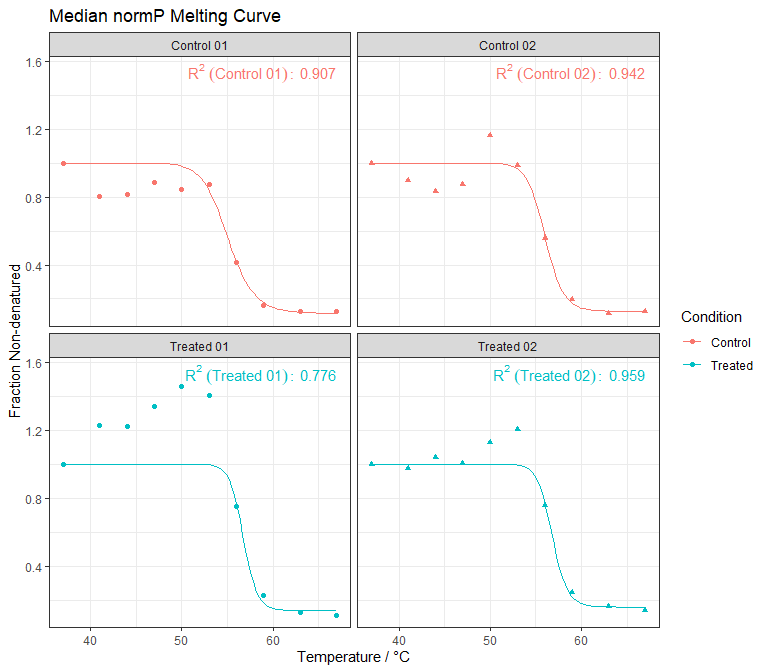
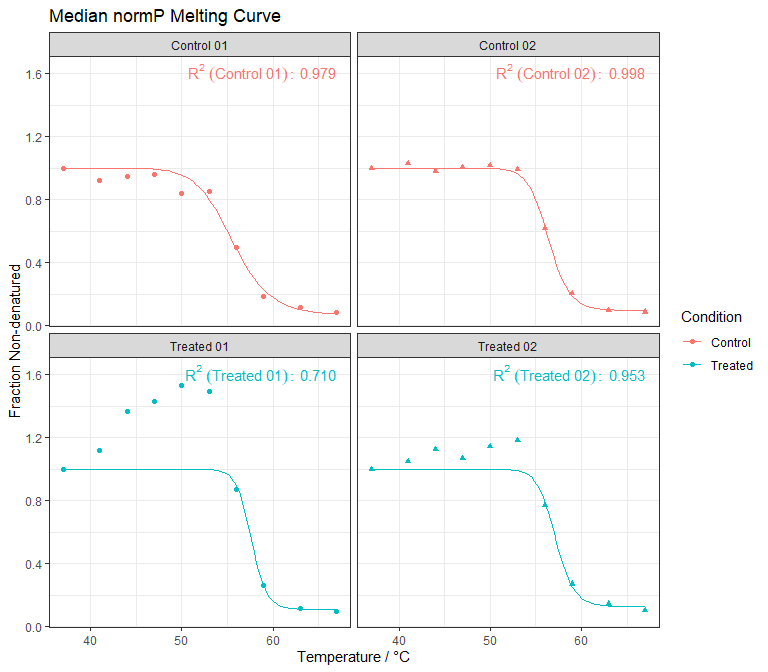
Update README to use 4-protein example data

diff --git a/README.md b/README.md
@@ -84,11 +84,11 @@ program-specific format, and a configuration file, defining conditions,
 replicates and temperatures, in the format shown.
 
 ``` r
-# 2-protein example data
-two_prot_report <-
-    system.file("extdata", "normP_report.csv", package = "tidyTPP")
+# 4-protein example data
+four_prot_report <-
+    system.file("extdata", "4_protein_peptide_report.csv", package = "tidyTPP")
 experiment_config <-
-    system.file("extdata", "ATIC_config.csv", package = "tidyTPP")
+    system.file("extdata", "4_protein_config.csv", package = "tidyTPP")
 
 # Config file contents
 read.csv(experiment_config)[1:10,]
@@ -105,48 +105,48 @@ read.csv(experiment_config)[1:10,]
 #> 10         10   Control         1   67
 
 # Import using spectronaut import format
-two_prot_quan_data <- 
-  import_spectronaut(datafile = two_prot_report,
+four_prot_quan_data <- 
+  import_spectronaut(datafile = four_prot_report,
                      config = experiment_config)
 #> 
 #> --------------------
 #> TPP Data Import
 #> --------------------
 #> Read in:
-#> C:/Users/jr2020/AppData/Local/Temp/RtmpoPSJxM/temp_libpath26c4672e2e12/tidyTPP/extdata/normP_report.csv 
-#> C:/Users/jr2020/AppData/Local/Temp/RtmpoPSJxM/temp_libpath26c4672e2e12/tidyTPP/extdata/ATIC_config.csv 
+#> C:/Users/jr2020/AppData/Local/Temp/RtmpoPSJxM/temp_libpath26c45695eb2/tidyTPP/extdata/4_protein_peptide_report.csv 
+#> C:/Users/jr2020/AppData/Local/Temp/RtmpoPSJxM/temp_libpath26c45695eb2/tidyTPP/extdata/4_protein_config.csv 
 #> --------------------
 #> Pivoting to long table...
 #> Transforming experiment names...
 #> Matching to experiment config data...
 #> Finding relative quantity values...
 #> Data imported.
-#> Found 2 proteins.
+#> Found 4 proteins.
 #> --------------------
 
 # Resulting tibble
-two_prot_quan_data
-#> # A tibble: 80 × 8
+four_prot_quan_data
+#> # A tibble: 160 × 8
 #>    Protein_ID Pep_N Match_N Condition Replicate  Temp rel_quantity raw_quantity
 #>    <chr>      <dbl>   <dbl> <chr>     <chr>     <int>        <dbl>        <dbl>
-#>  1 ATIC          36      62 Control   01           37      1           7913466.
-#>  2 ATIC          36      62 Control   01           41      0.915       7238843 
-#>  3 ATIC          36      62 Control   01           44      0.895       7083090 
-#>  4 ATIC          36      62 Control   01           47      0.689       5454540.
-#>  5 ATIC          36      62 Control   01           50      0.416       3291901 
-#>  6 ATIC          36      62 Control   01           53      0.195       1542812.
-#>  7 ATIC          36      62 Control   01           56      0.0458       362589.
-#>  8 ATIC          36      62 Control   01           59      0.0168       132594.
-#>  9 ATIC          36      62 Control   01           63      0.0258       204328.
-#> 10 ATIC          36      62 Control   01           67      0.00986       78023.
-#> # ℹ 70 more rows
+#>  1 Protein_A     36      62 Control   01           37      1           7913466.
+#>  2 Protein_A     36      62 Control   01           41      0.915       7238843 
+#>  3 Protein_A     36      62 Control   01           44      0.895       7083090 
+#>  4 Protein_A     36      62 Control   01           47      0.689       5454540.
+#>  5 Protein_A     36      62 Control   01           50      0.416       3291901 
+#>  6 Protein_A     36      62 Control   01           53      0.195       1542812.
+#>  7 Protein_A     36      62 Control   01           56      0.0458       362589.
+#>  8 Protein_A     36      62 Control   01           59      0.0168       132594.
+#>  9 Protein_A     36      62 Control   01           63      0.0258       204328.
+#> 10 Protein_A     36      62 Control   01           67      0.00986       78023.
+#> # ℹ 150 more rows
 ```
 
 Data at this stage can be plotted to directly observe relative but *not
 yet normalised* protein curves.
 
 ``` r
-plot_melt(two_prot_quan_data)
+plot_melt(four_prot_quan_data)
 ```
 
 <img src="man/figures/README-example_import_plot-1.png" width="75%" />
@@ -159,8 +159,8 @@ Savitsky *et al.* 2014.<sup>[1](#ref-Savitski_2014)</sup>
 
 ``` r
 # Normalise 2-protein data, with visualisation
-two_prot_normalised <- 
-  normalise_TPP(TPP_tbl = two_prot_quan_data,
+four_prot_normalised <- 
+  normalise_TPP(TPP_tbl = four_prot_quan_data,
                 to_plot = TRUE)
 #> --------------------
 #> TPP Normalisation
@@ -169,7 +169,7 @@ two_prot_normalised <-
 #>     col lower upper
 #> 1 Pep_N     2   Inf
 #> 
-#> jointP contains 2 Proteins.
+#> jointP contains 4 Proteins.
 #> 
 #> normP criteria:
 #>   Temp lower upper
@@ -177,7 +177,7 @@ two_prot_normalised <-
 #> 2   63  -Inf   0.3
 #> 3   67  -Inf   0.2
 #> 
-#> normP contains 1 Proteins.
+#> normP contains 2 Proteins.
 #> --------------------
 #> Fit melting curve to normP medians:
 #> 
@@ -186,13 +186,13 @@ two_prot_normalised <-
 #> |==        | 1 of 4|=====     | 2 of 4|=======   | 3 of 4|==========| 4 of 4
 #> 4 of 4 fitted successfully.
 #> 
-#> Total elapsed time: 0.76 s
+#> Total elapsed time: 0.75 s
 #> 
 #> Best fitted normP median curve:
 #>   Condition Replicate  R_sq
-#> 1   Treated        02 0.959
+#> 1   Control        02 0.998
 #> --------------------
-#> 2 proteins normalised
+#> 4 proteins normalised
 #> --------------------
 ```
 
@@ -203,21 +203,21 @@ Resulting in the normalised data:
 
 ``` r
 # Plotted melting data points
-plot_melt(two_prot_normalised)
-#> # A tibble: 80 × 9
+plot_melt(four_prot_normalised)
+#> # A tibble: 160 × 9
 #>    Condition Replicate  Temp Protein_ID Pep_N Match_N rel_quantity raw_quantity
 #>    <chr>     <chr>     <int> <chr>      <dbl>   <dbl>        <dbl>        <dbl>
-#>  1 Control   01           37 ATIC          36      62        1         7913466.
-#>  2 Control   01           37 CFL1          23      49        1        94161240 
-#>  3 Control   01           41 CFL1          23      49        1.00     75621648 
-#>  4 Control   01           41 ATIC          36      62        1.14      7238843 
-#>  5 Control   01           44 CFL1          23      49        1.00     76666176 
-#>  6 Control   01           44 ATIC          36      62        1.10      7083090 
-#>  7 Control   01           47 CFL1          23      49        1.00     83278416 
-#>  8 Control   01           47 ATIC          36      62        0.779     5454540.
-#>  9 Control   01           50 CFL1          23      49        1.00     79680368 
-#> 10 Control   01           50 ATIC          36      62        0.492     3291901 
-#> # ℹ 70 more rows
+#>  1 Control   01           37 Protein_A     36      62        1.00      7913466.
+#>  2 Control   01           37 Protein_B     62     133        1.00    371610272 
+#>  3 Control   01           37 Protein_C     23      49        1.00     94161240 
+#>  4 Control   01           37 Protein_D      5       7        1.00      4286970.
+#>  5 Control   01           41 Protein_D      5       7        1.13      4460470.
+#>  6 Control   01           41 Protein_A     36      62        0.992     7238843 
+#>  7 Control   01           41 Protein_B     62     133        1.01    345026016 
+#>  8 Control   01           41 Protein_C     23      49        0.871    75621648 
+#>  9 Control   01           44 Protein_D      5       7        1.14      4613956.
+#> 10 Control   01           44 Protein_C     23      49        0.861    76666176 
+#> # ℹ 150 more rows
 #> # ℹ 1 more variable: norm_coefficient <dbl>
 ```
 
@@ -241,14 +241,14 @@ optionally calculated from the data:
 Default behaviour is to apply both analyses:
 
 ``` r
-# Analyse 2-protein data
-two_prot_analysed <- 
-  analyse_TPP(TPP_tbl = two_prot_normalised,
+# Analyse four-protein data
+four_prot_analysed <- 
+  analyse_TPP(TPP_tbl = four_prot_normalised,
               control_name = "Control",
               p_value_methods = c("melting_point", "NPARC"))
 
 # Analysed data and fitted curves
-plot_melt(two_prot_analysed)
+plot_melt(four_prot_analysed)
 ```
 
 <img src="man/figures/README-example_analysis-1.png" width="75%" />
@@ -257,21 +257,21 @@ All statistics are appended as new measurements to the *tibble*:
 
 ``` r
 # Full table
-two_prot_analysed
-#> # A tibble: 80 × 25
+four_prot_analysed
+#> # A tibble: 160 × 25
 #>    Protein_ID Condition Replicate  Temp Pep_N Match_N rel_quantity raw_quantity
 #>    <chr>      <chr>     <chr>     <int> <dbl>   <dbl>        <dbl>        <dbl>
-#>  1 ATIC       Control   01           37    36      62       1          7913466.
-#>  2 ATIC       Control   01           44    36      62       1.10       7083090 
-#>  3 ATIC       Control   01           59    36      62       0.0222      132594.
-#>  4 ATIC       Control   01           41    36      62       1.14       7238843 
-#>  5 ATIC       Control   01           63    36      62       0.0330      204328.
-#>  6 ATIC       Control   01           50    36      62       0.492      3291901 
-#>  7 ATIC       Control   01           67    36      62       0.0125       78023.
-#>  8 ATIC       Control   01           47    36      62       0.779      5454540.
-#>  9 ATIC       Control   01           56    36      62       0.0857      362589.
-#> 10 ATIC       Control   01           53    36      62       0.221      1542812.
-#> # ℹ 70 more rows
+#>  1 Protein_A  Control   01           37    36      62       1.00       7913466.
+#>  2 Protein_A  Control   01           56    36      62       0.0580      362589.
+#>  3 Protein_A  Control   01           47    36      62       0.718      5454540.
+#>  4 Protein_A  Control   01           53    36      62       0.221      1542812.
+#>  5 Protein_A  Control   01           41    36      62       0.992      7238843 
+#>  6 Protein_A  Control   01           50    36      62       0.493      3291901 
+#>  7 Protein_A  Control   01           63    36      62       0.0231      204328.
+#>  8 Protein_A  Control   01           44    36      62       0.947      7083090 
+#>  9 Protein_A  Control   01           67    36      62       0.0111       78023.
+#> 10 Protein_A  Control   01           59    36      62       0.0167      132594.
+#> # ℹ 150 more rows
 #> # ℹ 17 more variables: norm_coefficient <dbl>, F_scaled <dbl>,
 #> #   p_adj_NPARC <dbl>, a <dbl>, b <dbl>, plateau <dbl>, melt_point <dbl>,
 #> #   infl_point <dbl>, slope <dbl>, R_sq <dbl>, Comparison <chr>,
@@ -280,8 +280,8 @@ two_prot_analysed
 
 # Statistics only
 one_prot_stats <- 
-  two_prot_analysed |>
-  dplyr::filter(Protein_ID == "ATIC", Condition != "Control") |>
+  four_prot_analysed |>
+  dplyr::filter(Protein_ID == "Protein_A", Condition != "Control") |>
   dplyr::select(Protein_ID, 
                 Condition, 
                 Replicate, 
@@ -305,8 +305,8 @@ one_prot_stats |>
 #> # A tibble: 2 × 6
 #>   Protein_ID Condition Replicate melt_point diff_melt_point adj_pvalue
 #>   <chr>      <chr>     <chr>          <dbl>           <dbl>      <dbl>
-#> 1 ATIC       Treated   01              51.7            1.71      0.401
-#> 2 ATIC       Treated   02              50.9            1.50      0.401
+#> 1 Protein_A  Treated   01              51.3            1.63      0.115
+#> 2 Protein_A  Treated   02              50.5            1.36      0.195
 
 # 2. NPARC
 one_prot_stats |>
@@ -319,7 +319,7 @@ one_prot_stats |>
 #> # A tibble: 1 × 4
 #>   Protein_ID Condition F_scaled p_adj_NPARC
 #>   <chr>      <chr>        <dbl>       <dbl>
-#> 1 ATIC       Treated       12.8  0.00000126
+#> 1 Protein_A  Treated       4.52     0.00179
 ```
 
 ### Hit Identification
@@ -331,9 +331,9 @@ across replicates, and $\Delta T_m$ for comparisons against controls
 greater than between controls.<sup>[1](#ref-Savitski_2014)</sup>
 
 ``` r
-# Get hits from analysed two-protein data
-two_prot_hits <- 
-  get_TPP_hits(TPP_data = two_prot_analysed,
+# Get hits from analysed four-protein data
+four_prot_hits <- 
+  get_TPP_hits(TPP_data = four_prot_analysed,
                hit_criteria = "default_hit_criteria",
                to_plot = TRUE,
                annotate = "melt_point")
@@ -356,11 +356,11 @@ two_prot_hits <-
 #> 1 hits found.
 #> --------------------
 
-two_prot_hits
+four_prot_hits
 #> # A tibble: 1 × 10
 #>   Protein_ID Condition Comparison         F_scaled p_adj_NPARC max_adj_pvalue
 #>   <chr>      <chr>     <chr>                 <dbl>       <dbl>          <dbl>
-#> 1 ATIC       Treated   Treated_vs_Control     12.8  0.00000126          0.401
+#> 1 Protein_A  Treated   Treated_vs_Control     4.52     0.00179          0.195
 #> # ℹ 4 more variables: mean_melt_point <dbl>, mean_control_melt_point <dbl>,
 #> #   mean_diff_melt_point <dbl>, mean_control_diff_melt_point <dbl>
 ```
@@ -375,7 +375,7 @@ are delimited text files (.csv, .tsv) or R data.
 
 ``` r
 # Export as .xlsx
-export_TPP(TPP_data = two_prot_analysed,
+export_TPP(TPP_data = four_prot_analysed,
            file_name = "TPP_results.xlsx",
            format = "xlsx")
 ```
